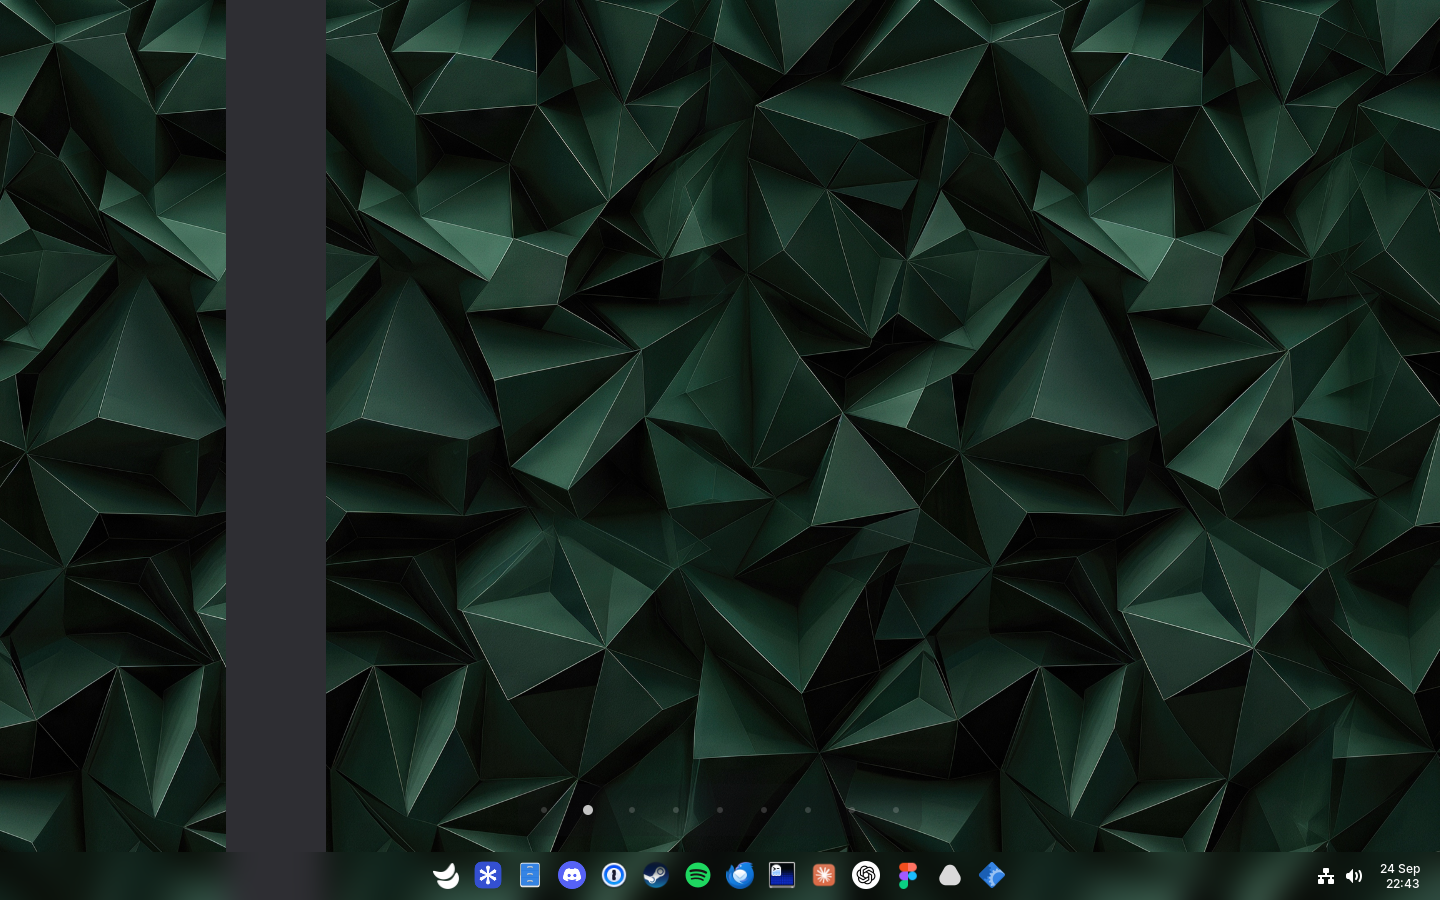
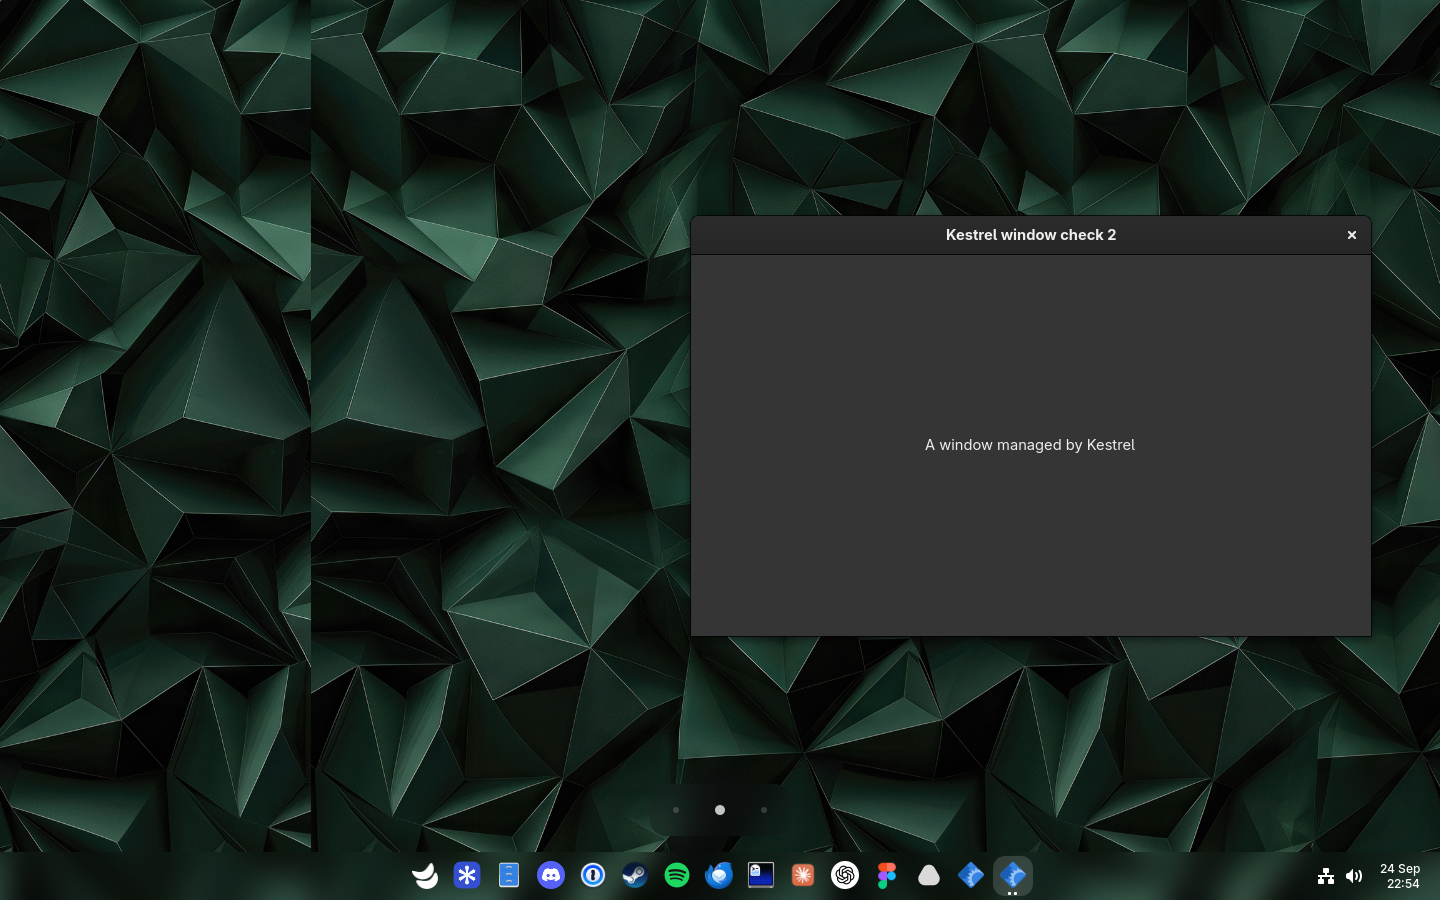
Refine glass rendering and dynamic workspace behavior

diff --git a/kestrel/tools/sessionChecks.js b/kestrel/tools/sessionChecks.js
@@ -89,37 +89,42 @@ export async function checkSession({pause, capture, actorNamed, pointer, keyboar
   Main.screenshotUI.close(true);
   await pause(250);
 
-  keyboard.notify_keyval(GLib.get_monotonic_time(), Clutter.KEY_Super_L, Clutter.KeyState.PRESSED);
-  await pause(80);
-  key(Clutter.KEY_2);
-  await pause(120);
-  await capture(`${output}/workspace-slide.png`);
-  keyboard.notify_keyval(GLib.get_monotonic_time(), Clutter.KEY_Super_L, Clutter.KeyState.RELEASED);
-  await pause(400);
-  require(global.workspace_manager.get_active_workspace_index() === 1, 'Super+2 switches to workspace two');
-  pointer.notify_absolute_motion(GLib.get_monotonic_time(), 120, panel.y + 24);
-  pointer.notify_discrete_scroll(GLib.get_monotonic_time(), Clutter.ScrollDirection.DOWN, Clutter.ScrollSource.WHEEL);
-  await pause(500);
-  require(global.workspace_manager.get_active_workspace_index() === 2, 'panel scroll switches workspace');
-  pointer.notify_absolute_motion(GLib.get_monotonic_time(), 120, 120);
-  keyboard.notify_keyval(GLib.get_monotonic_time(), Clutter.KEY_Super_L, Clutter.KeyState.PRESSED);
-  await pause(80);
-  pointer.notify_discrete_scroll(GLib.get_monotonic_time(), Clutter.ScrollDirection.UP, Clutter.ScrollSource.WHEEL);
-  await pause(500);
-  require(global.workspace_manager.get_active_workspace_index() === 1, 'Super+scroll switches workspace');
-  keyboard.notify_keyval(GLib.get_monotonic_time(), Clutter.KEY_Super_L, Clutter.KeyState.RELEASED);
-  await pause(350);
-  require(!actorNamed(global.stage, 'kestrel-start').visible, 'Super release after scrolling keeps Start closed');
-  keyboard.notify_keyval(GLib.get_monotonic_time(), Clutter.KEY_Super_L, Clutter.KeyState.PRESSED);
-  key(Clutter.KEY_1);
-  keyboard.notify_keyval(GLib.get_monotonic_time(), Clutter.KEY_Super_L, Clutter.KeyState.RELEASED);
-  await pause(500);
-  dismissImmediately();
-
   const app = Gio.Subprocess.new(['gjs', '-m', GLib.getenv('KESTREL_WINDOW_SCRIPT'), '--multiple'], Gio.SubprocessFlags.NONE);
   try {
     await pause(1000);
-    const window = global.get_window_actors().map(actor => actor.meta_window).find(window => window.title === 'Kestrel window check 1');
+    const windows = global.get_window_actors().map(actor => actor.meta_window);
+    const window = windows.find(window => window.title === 'Kestrel window check 1');
+    require(global.workspace_manager.n_workspaces === 2, 'occupied workspace has one empty workspace');
+    windows.find(window => window.title === 'Kestrel window check 2').change_workspace_by_index(1, false);
+    await pause(400);
+    require(global.workspace_manager.n_workspaces === 3, 'second occupied workspace adds one empty workspace');
+    keyboard.notify_keyval(GLib.get_monotonic_time(), Clutter.KEY_Super_L, Clutter.KeyState.PRESSED);
+    await pause(80);
+    key(Clutter.KEY_2);
+    await pause(120);
+    await capture(`${output}/workspace-slide.png`);
+    keyboard.notify_keyval(GLib.get_monotonic_time(), Clutter.KEY_Super_L, Clutter.KeyState.RELEASED);
+    await pause(400);
+    require(global.workspace_manager.get_active_workspace_index() === 1, 'Super+2 switches to workspace two');
+    pointer.notify_absolute_motion(GLib.get_monotonic_time(), 120, panel.y + 24);
+    pointer.notify_discrete_scroll(GLib.get_monotonic_time(), Clutter.ScrollDirection.DOWN, Clutter.ScrollSource.WHEEL);
+    await pause(500);
+    require(global.workspace_manager.get_active_workspace_index() === 2, 'panel scroll switches workspace');
+    pointer.notify_absolute_motion(GLib.get_monotonic_time(), 120, 120);
+    keyboard.notify_keyval(GLib.get_monotonic_time(), Clutter.KEY_Super_L, Clutter.KeyState.PRESSED);
+    await pause(80);
+    pointer.notify_discrete_scroll(GLib.get_monotonic_time(), Clutter.ScrollDirection.UP, Clutter.ScrollSource.WHEEL);
+    await pause(500);
+    require(global.workspace_manager.get_active_workspace_index() === 1, 'Super+scroll switches workspace');
+    keyboard.notify_keyval(GLib.get_monotonic_time(), Clutter.KEY_Super_L, Clutter.KeyState.RELEASED);
+    await pause(350);
+    require(!actorNamed(global.stage, 'kestrel-start').visible, 'Super release after scrolling keeps Start closed');
+    keyboard.notify_keyval(GLib.get_monotonic_time(), Clutter.KEY_Super_L, Clutter.KeyState.PRESSED);
+    key(Clutter.KEY_1);
+    keyboard.notify_keyval(GLib.get_monotonic_time(), Clutter.KEY_Super_L, Clutter.KeyState.RELEASED);
+    await pause(500);
+    dismissImmediately();
+
     window.activate(global.get_current_time());
     window.make_fullscreen();
     await pause(400);
@@ -130,6 +135,14 @@ export async function checkSession({pause, capture, actorNamed, pointer, keyboar
     require(panel.visible, 'panel returns after fullscreen');
     const runningApp = Shell.WindowTracker.get_default().get_window_app(window);
     const button = actorNamed(panel, `kestrel-app-${runningApp.id}`);
+    require(button.has_style_class_name('kestrel-app-focused'), 'focused app has persistent focus styling');
+    window.minimize();
+    await pause(250);
+    window.activate(global.get_current_time());
+    await pause(300);
+    require(button.has_style_class_name('kestrel-app-focused'), 'app focus styling returns after minimize and activation');
+    const dots = button.child.get_children().filter(actor => actor.has_style_class_name?.('kestrel-running-dot') && actor.visible);
+    require(dots.length === 2, 'two app windows show two running dots');
     const [x, y] = button.get_transformed_position();
     pointer.notify_absolute_motion(GLib.get_monotonic_time(), x + 20, y + 20);
     await pause(550);
@@ -157,6 +170,7 @@ export async function checkSession({pause, capture, actorNamed, pointer, keyboar
     await pause(200);
   } finally {
     app.force_exit();
-    await pause(300);
+    await pause(500);
+    require(global.workspace_manager.n_workspaces === 1, 'empty workspaces collapse after windows close');
   }
 }

diff --git a/kestrel/ui/src/taskbar.ts b/kestrel/ui/src/taskbar.ts
@@ -11,8 +11,9 @@ interface AppItem {
   icon: St.Bin;
   slot: St.Widget;
   button: St.Button;
-  dot: St.Widget;
+  dots: St.Widget[];
   removing: boolean;
+  windowsChanged: number;
 }
 
 export class Taskbar {
@@ -51,14 +52,17 @@ export class Taskbar {
         }
       }
       if (item.app !== app) {
+        item.app.disconnect(item.windowsChanged);
         item.app = app;
+        const currentItem = item;
+        item.windowsChanged = app.connect('windows-changed', () => this.updateDots(currentItem));
         item.icon.child = app.create_icon_texture(PANEL_ICON_SIZE);
       }
       item.button.accessible_name = app.get_name();
       item.removing = false;
       item.button.reactive = true;
       this.actor.set_child_at_index(item.slot, index);
-      item.dot.visible = app.state === Shell.AppState.RUNNING;
+      this.updateDots(item);
       animateActor(item.slot, { width: 42, duration: this.initialized ? 220 : 0, mode: Clutter.AnimationMode.EASE_OUT_QUART });
       animateActor(item.button, { opacity: 255, translation_y: 0, duration: this.initialized ? 220 : 0, mode: Clutter.AnimationMode.EASE_OUT_QUART });
     });
@@ -68,9 +72,17 @@ export class Taskbar {
 
   updateFocus(): void {
     for (const [id, item] of this.items) {
-      if (id === this.tracker.focus_app?.id) item.button.add_style_pseudo_class('active');
-      else item.button.remove_style_pseudo_class('active');
+      if (id === this.tracker.focus_app?.id) item.button.add_style_class_name('kestrel-app-focused');
+      else item.button.remove_style_class_name('kestrel-app-focused');
     }
+  }
+
+  private updateDots(item: AppItem): void {
+    const count = Math.min(4, item.app.get_windows().filter(window => !window.skip_taskbar).length);
+    item.dots.forEach((dot, index) => {
+      dot.visible = index < count;
+      dot.x = (40 - (count * 3 + (count - 1) * 3)) / 2 + index * 6;
+    });
   }
 
   private create(app: Shell.App): AppItem {
@@ -78,18 +90,20 @@ export class Taskbar {
     icon.set_position((40 - PANEL_ICON_SIZE) / 2, 5);
     const content = new St.Widget({ width: 40, height: 40 });
     content.add_child(icon);
-    const dot = new St.Widget({
-      style_class: 'kestrel-running-dot',
-      x: 18.5, y: 36, width: 3, height: 3,
+    const dots = Array.from({ length: 4 }, () => {
+      const dot = new St.Widget({ style_class: 'kestrel-running-dot', y: 36, width: 3, height: 3, visible: false });
+      content.add_child(dot);
+      return dot;
     });
-    content.add_child(dot);
     const button = new St.Button({
       name: `kestrel-app-${app.id}`, style_class: 'kestrel-task-button', child: content, width: 40, height: 40,
       can_focus: true, track_hover: true, accessible_name: app.get_name(),
     });
     const slot = new St.Widget({ width: 42, height: 40, clip_to_allocation: true });
     slot.add_child(button);
-    const item = { app, icon, slot, button, dot, removing: false };
+    const item = { app, icon, slot, button, dots, removing: false, windowsChanged: 0 };
+    item.windowsChanged = app.connect('windows-changed', () => this.updateDots(item));
+    button.connect('destroy', () => item.app.disconnect(item.windowsChanged));
     liftIcon(button, icon);
     this.previews.bind(button, () => item.app);
     this.menus.bind(button, () => this.menus.appEntries(item.app));

diff --git a/kestrel/ui/src/windowPreviews.ts b/kestrel/ui/src/windowPreviews.ts
@@ -70,9 +70,9 @@ export class WindowPreviews {
       header.add_child(close);
       card.add_child(header);
       const source = window.get_compositor_private() as Clutter.Actor | null;
-      const preview = new St.Widget({ width, height: 116, layout_manager: new Clutter.BinLayout() });
+      const preview = new St.Widget({ width: width - 4, height: 116, layout_manager: new Clutter.BinLayout() });
       if (source) {
-        const scale = Math.min(width / source.width, 116 / source.height);
+        const scale = Math.min((width - 4) / source.width, 116 / source.height);
         preview.add_child(new Clutter.Clone({ source, width: Math.round(source.width * scale), height: Math.round(source.height * scale), x_align: Clutter.ActorAlign.CENTER, y_align: Clutter.ActorAlign.CENTER }));
       }
       const activate = new St.Button({ child: preview, can_focus: true, style_class: 'kestrel-preview-window', accessible_name: window.title || app.get_name() });
@@ -82,11 +82,14 @@ export class WindowPreviews {
       this.windowSignals.push([window, window.connect('notify::title', () => { title.text = window.title || app.get_name(); })]);
       this.windowSignals.push([window, window.connect('unmanaged', () => this.close())]);
     });
-    const scroll = new St.ScrollView({ hscrollbar_policy: St.PolicyType.NEVER, vscrollbar_policy: St.PolicyType.AUTOMATIC });
+    const scroll = new St.ScrollView({ hscrollbar_policy: St.PolicyType.NEVER, vscrollbar_policy: St.PolicyType.NEVER });
     scroll.child = grid;
     this.actor.add_child(scroll);
     this.actor.show();
-    scroll.height = Math.min(grid.get_preferred_height(-1)[1], monitor.height - PANEL_HEIGHT - 36);
+    const availableHeight = monitor.height - PANEL_HEIGHT - 36;
+    const naturalHeight = grid.get_preferred_height(-1)[1];
+    scroll.vscrollbar_policy = naturalHeight > availableHeight ? St.PolicyType.AUTOMATIC : St.PolicyType.NEVER;
+    scroll.height = Math.min(naturalHeight, availableHeight);
     const popupWidth = this.actor.get_preferred_width(-1)[1];
     const popupHeight = this.actor.get_preferred_height(popupWidth)[1];
     const [x] = button.get_transformed_position();

diff --git a/kestrel/engine/js/ui/windowManager.js b/kestrel/engine/js/ui/windowManager.js
@@ -39,7 +39,8 @@ export const UNDIM_TIME = 250;
 
 const ONE_SECOND = 1000; // in ms
 
-const MIN_NUM_WORKSPACES = 2;
+const MIN_NUM_WORKSPACES = 1;
+const MAX_NUM_WORKSPACES = 10;
 
 const WINDOW_DIMMER_EFFECT_NAME = 'gnome-shell-window-dimmer';
 
@@ -264,7 +265,7 @@ class WorkspaceTracker {
         }
 
         // If we don't have an empty workspace at the end, add one
-        if (!emptyWorkspaces[emptyWorkspaces.length - 1]) {
+        if (!emptyWorkspaces[emptyWorkspaces.length - 1] && workspaceManager.n_workspaces < MAX_NUM_WORKSPACES) {
             workspaceManager.append_new_workspace(false, global.get_current_time());
             emptyWorkspaces.push(true);
         }
@@ -276,8 +277,10 @@ class WorkspaceTracker {
         }
 
         const lastIndex = emptyWorkspaces.length - 1;
-        const lastEmptyIndex = emptyWorkspaces.lastIndexOf(false) + 1;
         const activeWorkspaceIndex = workspaceManager.get_active_workspace_index();
+        const lastEmptyIndex = emptyWorkspaces[activeWorkspaceIndex]
+            ? activeWorkspaceIndex
+            : emptyWorkspaces.lastIndexOf(false) + 1;
         emptyWorkspaces[activeWorkspaceIndex] = false;
 
         // Delete empty workspaces except for the last one; do it from the end
@@ -758,7 +761,7 @@ export class WindowManager {
             Shell.ActionMode.POPUP,
             this._toggleQuickSettings.bind(this));
 
-        for (let index = 1; index <= 9; index++) {
+        for (let index = 1; index <= 10; index++) {
             this.addKeybinding(`kestrel-workspace-${index}`,
                 new Gio.Settings({schema_id: SHELL_KEYBINDINGS_SCHEMA}),
                 Meta.KeyBindingFlags.IGNORE_AUTOREPEAT,
@@ -905,7 +908,7 @@ export class WindowManager {
     insertWorkspace(pos) {
         const workspaceManager = global.workspace_manager;
 
-        if (!Meta.prefs_get_dynamic_workspaces())
+        if (!Meta.prefs_get_dynamic_workspaces() || workspaceManager.n_workspaces >= MAX_NUM_WORKSPACES)
             return;
 
         workspaceManager.append_new_workspace(false, global.get_current_time());

diff --git a/kestrel/engine/data/theme/kestrel.css b/kestrel/engine/data/theme/kestrel.css
@@ -29,8 +29,8 @@
 }
 
 .kestrel-running-dot { width: 3px; height: 3px; margin: 0; border-radius: 2px; background-color: rgba(255, 255, 255, 0.55); }
-.kestrel-task-button:active .kestrel-running-dot { background-color: #ffffff; }
-.kestrel-task-button:active {
+.kestrel-app-focused .kestrel-running-dot { background-color: #ffffff; }
+.kestrel-task-button:active, .kestrel-app-focused {
   background-color: rgba(255, 255, 255, 0.15);
 }
 
@@ -278,3 +278,6 @@ StEntry:focus { background-color: rgba(255, 255, 255, 0.13); border-color: rgba(
 .screenshot-ui-show-pointer-button:checked { background-color: rgba(255, 255, 255, 0.22); color: white; }
 .screenshot-ui-shot-cast-button:checked { color: white; }
 .screenshot-ui-window-selector { background-color: rgba(20, 20, 24, 0.20); }
+
+.kestrel-task-button StIcon { icon-shadow: none; }
+.workspace-animation { background-color: transparent; }

diff --git a/kestrel/ui/src/launcher.ts b/kestrel/ui/src/launcher.ts
@@ -12,7 +12,7 @@ const MARK_SIZE = 26;
 export function createLauncher(activate: () => void): St.Button {
   const mark = new St.Widget({ width: MARK_SIZE, height: MARK_SIZE, layout_manager: new Clutter.BinLayout() });
   const button = new St.Button({
-    style_class: 'kestrel-task-button', child: mark,
+    style_class: 'kestrel-task-button', child: mark, clip_to_allocation: true,
     width: 40, height: 40, can_focus: true, track_hover: true, accessible_name: 'Start',
   });
   for (const [svg, direction, pivotX, pivotY] of [[secondary, 1, 0.58, 0.69], [primary, -1, 0.4, 0.3]] as const) {

diff --git a/kestrel/ui/src/contextMenus.ts b/kestrel/ui/src/contextMenus.ts
@@ -112,7 +112,7 @@ export class ContextMenus {
     scroll.child = content;
     this.actor.add_child(scroll);
     this.actor.show();
-    this.actor.width = Math.min(monitor.width - 16, Math.max(144, Math.min(420, content.get_preferred_width(-1)[1] + 12)));
+    this.actor.width = Math.min(monitor.width - 16, Math.max(144, Math.min(420, content.get_preferred_width(-1)[1] + 40)));
     scroll.height = Math.min(content.get_preferred_height(this.actor.width - 12)[1], monitor.height - 40);
     const stage = (global as unknown as Shell.Global).stage;
     this.shield.set_position(0, 0);

diff --git a/kestrel/ui/src/workspaces.ts b/kestrel/ui/src/workspaces.ts
@@ -11,8 +11,7 @@ export class Workspaces {
   private accumulated = 0;
 
   constructor(private readonly enabled: () => boolean, private readonly beforeSwitch: () => void) {
-    new Gio.Settings({ schema_id: 'org.gnome.mutter' }).set_boolean('dynamic-workspaces', false);
-    new Gio.Settings({ schema_id: 'org.gnome.desktop.wm.preferences' }).set_int('num-workspaces', 9);
+    new Gio.Settings({ schema_id: 'org.gnome.mutter' }).set_boolean('dynamic-workspaces', true);
   }
 
   switchTo(index: number): void {

diff --git a/kestrel/engine/js/ui/dialog.js b/kestrel/engine/js/ui/dialog.js
@@ -78,7 +78,6 @@ class Dialog extends St.Widget {
         // mode accordingly so wrapped labels are handled correctly during
         // size requests.
         this._dialog.request_mode = Clutter.RequestMode.HEIGHT_FOR_WIDTH;
-        this._dialog.set_offscreen_redirect(Clutter.OffscreenRedirect.ALWAYS);
 
         this.contentLayout = new St.BoxLayout({
             orientation: Clutter.Orientation.VERTICAL,

diff --git a/kestrel/engine/js/ui/workspaceSwitcherPopup.js b/kestrel/engine/js/ui/workspaceSwitcherPopup.js
@@ -15,7 +15,6 @@ export const MonitorWorkspaceSwitcherPopup = GObject.registerClass(
 class MonitorWorkspaceSwitcherPopup extends Clutter.Actor {
     constructor(constraint) {
         super({
-            offscreen_redirect: Clutter.OffscreenRedirect.ALWAYS,
             x_expand: true,
             y_expand: true,
             x_align: Clutter.ActorAlign.CENTER,

diff --git a/kestrel/engine/js/ui/workspaceAnimation.js b/kestrel/engine/js/ui/workspaceAnimation.js
@@ -12,7 +12,7 @@ import * as Util from '../misc/util.js';
 import * as Main from './main.js';
 
 export const WINDOW_ANIMATION_TIME = 250;
-export const WORKSPACE_SPACING = 100;
+export const WORKSPACE_SPACING = 0;
 
 export const BaseWorkspaceGroup = GObject.registerClass(
 class BaseWorkspaceGroup extends Clutter.Actor {

diff --git a/kestrel/README.md b/kestrel/README.md
@@ -16,7 +16,7 @@ Kestrel is Luft's desktop shell. It builds against the host Mutter 51 library an
 - The power menu opens above the Start footer, keeps Start visible, and delegates lock, suspend, log out, restart, and power off to the existing session action backend.
 - Backdrop capture updates only freshly painted regions in a separate cache for each display view. Partial damage schedules a repaint of the affected surface, and offscreen capture is clipped to valid pixels. Settled surfaces do not continuously redraw.
 - Shell blur includes a rounded mask in its final shader pass, keeping menu corners clean without an extra offscreen pass. Panel and menu blur share the same brightness without a tint overlay. The panel has square corners.
-- Start uses six equal app columns, keyboard search, and a compact account and power footer with the AccountsService avatar when available. Panel hover highlights are inset and rounded, with separate dots for running apps.
+- Start uses six equal app columns, keyboard search, and a compact account and power footer with the AccountsService avatar when available. Panel hover highlights are inset and rounded, with up to four dots for each app’s open windows. A focused app keeps white dots independently of pointer presses.
 - Main surfaces slide in over 300 ms and out over 230 ms. Power options reveal from the Start footer button over 200 ms and retract over 160 ms. Interrupted transitions reverse from their current position.
 - The launcher uses the original two-part Luft mark at an optical size of 26px alongside 28px app icons, with its original proportions and a subtle split and opposing tilt on hover, without shrinking the two parts. Taskbar apps slide and fade in and out while their space expands or closes. The Start scrollbar is translucent, brightening on hover and drag. Search has a text-aligned caret that blinks while focused; running dots have a dedicated position beneath app icons. Newly opened surfaces stack above those sliding closed.
 - Set `KESTREL_CSS_PATH` to a local stylesheet when launching the shell to reload styles after each saved change.
@@ -37,7 +37,7 @@ Right-click an app in Start or the panel for launch actions, open windows, pinni
 
 ### Workspaces
 
-Kestrel uses nine fixed workspaces. Super+1 through Super+9 selects a workspace; Super+scroll or scrolling over the panel moves between adjacent workspaces. Transitions use the compositor’s workspace slide animation. These bindings replace the retained overview application shortcuts.
+Kestrel keeps one empty workspace alongside occupied workspaces, up to ten total. Empty workspaces are removed as windows close or move. Super+1 through Super+9 selects a workspace and Super+0 selects the tenth; Super+scroll or scrolling over the panel moves between adjacent workspaces. Transitions use the compositor’s workspace slide animation. These bindings replace the retained overview application shortcuts.
 
 ### System dialogs
 
